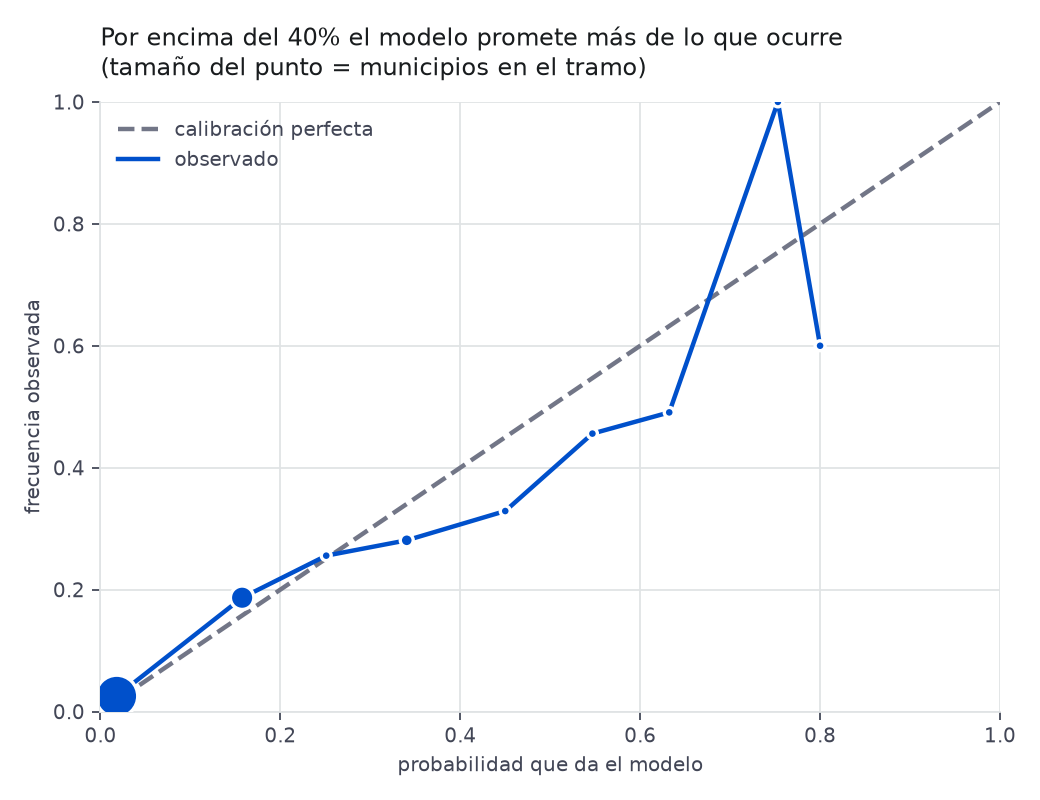
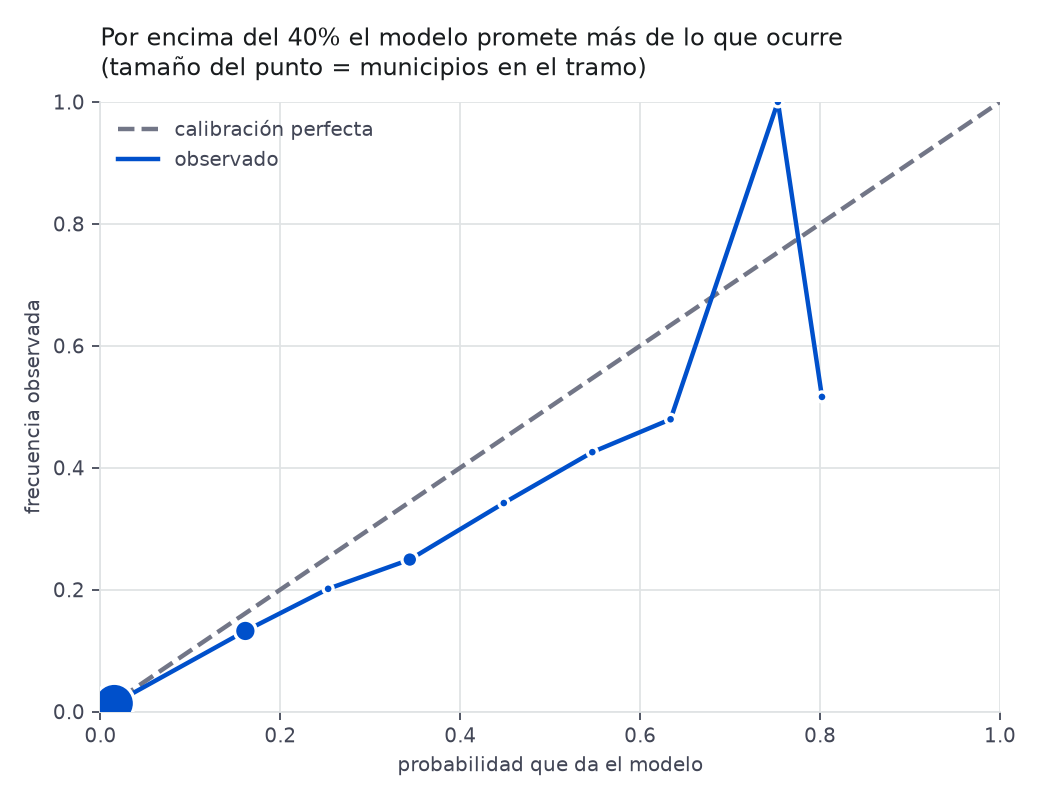
feat(ml): la renta que el INE asigna entra como hueco, no como dato
Segunda parte de la renta asignada: la primera la marcó (0033), esta la mide y la aplica
al modelo.

El problema no es que el valor sea una media, es que el régimen cambia a mitad de la
serie. Hasta 2019 los municipios de menos de 100 habitantes llegaban vacíos por secreto
estadístico; desde 2020 llegan rellenos con la media de su provincia o comarca agraria.
El modelo aprendía con huecos y predecía con medias comarcales, y justo en los municipios
pequeños, que son los del problema que estudia el proyecto.

Medido antes de tocar nada, con el backtest rodante y los mismos pliegues:

- Pliegue de validación 2020, municipios de <100 hab (n=1.372): MAE 12,518 → 11,622.
- Mismo pliegue, municipios de ≥100 hab: 4,605 en las dos variantes, idéntico.
- Pliegue de 2019, sin renta asignada: 5,547 en las dos, idéntico.

Que solo se mueva lo que tenía que moverse es lo que hace creíble la medición: el efecto
está aislado, no es ruido. El límite está dicho: solo hay un pliegue afectado, porque
2020 es el único año base con renta asignada y objetivo conocido.

Tras reentrenar, el informe versionado y el README:

- MAE del backtest 5,744 ± 0,278 → 5,668 ± 0,171 (también menos disperso).
- Estrato <500 hab: 8,507 → 8,199. Los otros tres estratos, idénticos al milésimo.
- Riesgo: AUC 0,8439 → 0,8677; Brier sin calibrar 0,07534 → 0,07262.
- Moran de los residuos: 0,1038 → 0,0984.

Lo que no mejora, dicho: el sesgo del estrato <500 pasa de -0,307 a +1,329 pp, es decir,
[…]

diff --git a/services/orchestrator/src/territorio_pipelines/ml/features.py b/services/orchestrator/src/territorio_pipelines/ml/features.py
@@ -39,13 +39,30 @@ TARGET = "target"
 HORIZONTE = 5
 
 
+#: Lo que el modelo lee de la matriz. La renta **asignada** por el INE a los municipios
+#: de menos de 100 habitantes (la media de los de ese tamaño de su comarca agraria, ver
+#: migración 0033) entra como hueco, no como dato.
+#:
+#: El motivo es que el régimen cambia a mitad de la serie: hasta 2019 esos municipios
+#: llegaban vacíos por secreto estadístico y desde 2020 llegan rellenos con una media.
+#: El modelo aprendía con huecos y predecía con medias comarcales, que es otra cosa.
+#: Medido en el backtest rodante (pliegue de validación 2020, único con renta asignada y
+#: objetivo conocido): el MAE de los municipios de menos de 100 habitantes baja de 12,518
+#: a 11,622 tratándola como hueco. En los de 100 o más queda idéntico (4,605), y el
+#: pliegue de 2019, que no tiene renta asignada, tampoco se mueve (5,547).
+#:
+#: HistGradientBoosting trata los NaN de forma nativa: el hueco es información, la media
+#: de otros municipios no.
+_SQL_FMA = """
+SELECT cod_municipio AS cod, anio, poblacion_total AS pob, paro_media_anual AS paro,
+       CASE WHEN flag_renta_asignada THEN NULL ELSE renta_neta_media_persona END AS renta,
+       alquiler_eur_m2 AS alquiler
+FROM fact_municipio_anual
+"""
+
+
 def _leer(engine: Engine) -> dict[str, pd.DataFrame]:
-    fma = pd.read_sql(
-        "SELECT cod_municipio AS cod, anio, poblacion_total AS pob, paro_media_anual AS paro, "
-        "renta_neta_media_persona AS renta, alquiler_eur_m2 AS alquiler "
-        "FROM fact_municipio_anual",
-        engine,
-    )
+    fma = pd.read_sql(_SQL_FMA, engine)
     dim = pd.read_sql(
         "SELECT cod_municipio AS cod, cod_provincia, superficie_km2 FROM dim_municipio", engine
     )

diff --git a/services/orchestrator/tests/test_features.py b/services/orchestrator/tests/test_features.py
@@ -163,3 +163,29 @@ class TestAntiFuga:
         # 2012 no existe en la serie sintética (empieza en 2015) → sin tendencia previa
         assert df["crec_prev3"].isna().all()
         assert not np.isfinite(df["crec_prev3"].to_numpy(dtype=float)).any()
+
+
+class TestRentaAsignada:
+    """La renta que el INE asigna a los municipios de menos de 100 habitantes (la media de
+    su comarca, ver migración 0033) no es un dato del municipio, y el modelo la recibía
+    como si lo fuera.
+
+    Importa porque el régimen cambia a mitad de la serie: hasta 2019 esos municipios
+    llegaban vacíos (secreto estadístico) y desde 2020 llegan rellenos. El modelo aprendió
+    con huecos y predice con medias comarcales. Medido en el backtest rodante: tratarla
+    como hueco baja el MAE de los municipios de menos de 100 habitantes de 12,518 a 11,622
+    en el pliegue de 2020, y deja intacto el resto (4,605 en los de 100 o más, y 5,547 en
+    el pliegue de 2019, que no tiene renta asignada).
+    """
+
+    def test_la_consulta_descarta_la_renta_asignada(self):
+        from territorio_pipelines.ml import features
+
+        sql = " ".join(features._SQL_FMA.split())
+        assert "flag_renta_asignada" in sql
+        assert "THEN NULL" in sql
+
+    def test_sigue_leyendo_la_renta_normal(self):
+        from territorio_pipelines.ml import features
+
+        assert "renta_neta_media_persona" in features._SQL_FMA

diff --git a/README.md b/README.md
@@ -70,9 +70,9 @@ more precise than it is:
 |---|---|---|
 | Persistence (assume no change) | 7.65 | — |
 | Trend (extrapolate recent growth) | 10.02 | — |
-| **HistGradientBoosting** | **5.74 ± 0.28** | **0.36** |
+| **HistGradientBoosting** | **5.67 ± 0.17** | **0.37** |
 
-The model beats persistence by 24% and naive trend extrapolation by 42%. Note that
+The model beats persistence by 26% and naive trend extrapolation by 43%. Note that
 extrapolating the trend is *worse* than assuming nothing changes — a useful reminder about
 small-population noise.
 
@@ -91,7 +91,7 @@ the honest number is the one published now.
 
 **Overlapping windows are priced, not hidden.** The target looks 5 years ahead, so with
 contiguous folds the training and validation windows share trajectory over the same
-municipalities. With a 2-year embargo the MAE rises to 6.16. A full embargo (= the horizon)
+municipalities. With a 2-year embargo the MAE rises to 6.04. A full embargo (= the horizon)
 is **not feasible**: population data starts in 2015 and there are not enough base years
 left. That is a limit of the data, and it is stated rather than quietly skipped.
 
@@ -102,12 +102,12 @@ villages, and that is exactly where the model is weakest:
 
 | Size | n | MAE | If nothing changed |
 |---|---|---|---|
-| <500 | 4,001 | **8.53** | 9.83 |
+| <500 | 4,001 | **8.20** | 9.83 |
 | 500-2,000 | 1,871 | 4.24 | 5.88 |
 | 2,000-10,000 | 1,500 | 3.04 | 5.47 |
 | >10,000 | 759 | **2.33** | 4.63 |
 
-A factor of 3.7 between the extremes. The model still wins in every stratum, but by much
+A factor of 3.5 between the extremes. The model still wins in every stratum, but by much
 less than the aggregate suggests.
 
 **The residuals are spatially autocorrelated.** Moran's I on the error = **0.104**
@@ -127,7 +127,7 @@ separate temporal blocks), it **does not improve** the Brier score: 0.0760 calib
 
 ![Reliability diagram](docs/evaluacion/fiabilidad.png)
 
-So the traffic light **ranks well but does not quantify well** — AUC 0.84 separates the
+So the traffic light **ranks well but does not quantify well** — AUC 0.87 separates the
 towns at risk, which is what the green/amber/red UI uses. Reading the percentage as a
 literal frequency is what does not hold. An earlier version of this README claimed
 "70% actually means 70%"; that claim came from calibrating and scoring on the same rows.
@@ -161,7 +161,7 @@ existed. Run with the full 34,126 labelled headlines:
 The improvement is **0.029 pp against a 0.20 pp threshold**, and its bootstrap 95% CI
 `[-0.040, 0.099]` contains zero. **Verdict: rejected.** The news features do not enter the
 production model. The layer survives as a product — a local-press panel in the dossier —
-not as a predictor. *(This MAE is not comparable to the 5.74 above: 3-year horizon, Navarre
+not as a predictor. *(This MAE is not comparable to the 5.67 above: 3-year horizon, Navarre
 only, different window.)*
 
 The criterion was not touched after seeing the result. Verifying that is the point of
@@ -180,10 +180,27 @@ twelve** (7–11). 2020 is a validation base year.
 
 Both flags are now columns (`flag_renta_secreto`, `paro_meses`). Neither goes into the
 model: measured over the same folds, adding them changes the MAE by nothing at all
-(5.743336 in every variant, to six decimals). `renta` already carries the information as a
+(5.743336 in every variant, to six decimals). `renta` already carried the information as a
 NaN that the gradient booster exploits natively, and `paro_meses` is constant within every
 training window. They are there for the reader and the data contract, not the predictor —
 which is why it was worth measuring rather than assuming.
+
+**That last argument stopped holding, and measuring caught it.** From the ADRH 2020
+edition the INE no longer masks the income of municipalities under 100 inhabitants: it
+*assigns* them the average of the under-100 municipalities of their province (2020-2021)
+or of their **agrarian comarca** (2022 onwards). So 22 villages in Tierra Estella all
+"earn" exactly €18,318 in 2023. It is one in six municipalities with income data, and
+precisely the small ones this project is about — and the regime changes mid-series: masked
+until 2019, filled in from 2020. The model learned with holes and predicted with comarca
+averages.
+
+A third column (`flag_renta_asignada`, migration 0033) marks it, and unlike the other two
+this one **does** go into the model, as a hole rather than a number. Measured on the same
+rolling backtest (validation fold 2020, the only one with both assigned income and a known
+target): MAE for municipalities under 100 inhabitants drops from 12.52 to 11.62, while
+those of 100 or more stay identical to three decimals (4.605), and the 2019 fold — which
+has no assigned income — does not move either (5.547). The published headline went from
+5.74 ± 0.28 to 5.67 ± 0.17.
 
 **Explainability without overclaiming.** Permutation importance globally; per-municipality
 "drivers" derived from importance × correlation sign × deviation from the median. The code
@@ -412,10 +429,10 @@ Stated plainly, because a model of rural decline that oversells itself is worse 
   are where that approximation hurts most.
 - **Correlation, not causation.** The per-municipality "drivers" are a ranking heuristic to
   guide investigation. Nothing here identifies a causal effect.
-- **Small populations are noisy — and now measured.** MAE is 8.53 pp for municipalities
-  under 500 inhabitants versus 2.36 for those over 10,000. The aggregate 5.80 is an average
+- **Small populations are noisy — and now measured.** MAE is 8.20 pp for municipalities
+  under 500 inhabitants versus 2.33 for those over 10,000. The aggregate 5.67 is an average
   over a very uneven surface, and the weak half is the half this project exists for.
-- **The residuals are spatially autocorrelated** (Moran's I = 0.114, p = 0.001), so the
+- **The residuals are spatially autocorrelated** (Moran's I = 0.098, p = 0.001), so the
   model is missing regional structure. Known, measured, unfixed.
 - **The risk percentage is not a calibrated frequency.** Isotonic calibration does not
   improve the Brier score out of sample. Use the green/amber/red level, not the number.

diff --git a/docs/evaluacion/informe.md b/docs/evaluacion/informe.md
@@ -14,10 +14,10 @@ Un corte único da una cifra sin dispersión que parece más precisa de lo que e
 | Año de validación | Entrena con | n val | MAE | R² | MAE persistencia | MAE tendencia |
 |---|---|---|---|---|---|---|
 | 2019 | 2015-2018 | 8.131 | 5,547 | 0,406 | 7,662 | 10,192 |
-| 2020 | 2015-2019 | 8.131 | 5,940 | 0,309 | 7,632 | 9,844 |
+| 2020 | 2015-2019 | 8.131 | 5,789 | 0,330 | 7,632 | 9,844 |
 
-**MAE = 5,744 ± 0,278 pp** (2 pliegues,
-rango 5,547–5,940).
+**MAE = 5,668 ± 0,171 pp** (2 pliegues,
+rango 5,547–5,789).
 
 Pliegues descartados y por qué:
 
@@ -33,12 +33,12 @@ un embargo, y la ventana de datos disponible no da para mucho:
 
 | Embargo (años) | Pliegues | MAE medio | Nota |
 |---|---|---|---|
-| 2 | 1 | 6,157 |  |
+| 2 | 1 | 6,038 |  |
 | 3 | 0 | — | sin pliegues con datos suficientes |
 | 4 | 0 | — | sin pliegues con datos suficientes |
 | 5 | 0 | — | sin pliegues con datos suficientes |
 
-Con embargo 1 el MAE es 5,744; con embargo 2, 6,157. La diferencia
+Con embargo 1 el MAE es 5,668; con embargo 2, 6,038. La diferencia
 es el precio de haber estado midiendo sobre ventanas solapadas. **Un embargo completo
 (= el horizonte) no es factible hoy**: la población empieza en 2015 y no quedan años base
 suficientes. Es una limitación de los datos, no una decisión de diseño, y se declara en
@@ -50,13 +50,13 @@ vez de publicar el número más favorable.
 
 | Tamaño | n | MAE | Sesgo | MAE si no cambia nada |
 |---|---|---|---|---|
-| <500 | 4.001 | 8,51 | -0,31 | 9,83 |
+| <500 | 4.001 | 8,20 | +1,33 | 9,83 |
 | 500-2000 | 1.871 | 4,24 | +1,16 | 5,88 |
 | 2000-10000 | 1.500 | 3,04 | +0,30 | 5,47 |
 | >10000 | 759 | 2,33 | -0,17 | 4,63 |
 
 Esto es lo que un MAE agregado esconde: el error en los municipios de menos de 500
-habitantes es **3,7 veces**
+habitantes es **3,5 veces**
 el de los de más de 10.000. Y son justo los municipios por los que existe este proyecto.
 La comparación honesta no es contra cero, sino contra "no cambia nada" en cada estrato:
 ahí el modelo sigue ganando, pero por menos de lo que sugiere la cifra global.
@@ -65,18 +65,18 @@ ahí el modelo sigue ganando, pero por menos de lo que sugiere la cifra global.
 
 | Provincia | n | MAE | Sesgo |
 |---|---|---|---|
-| 19 | 288 | 14,48 | -1,82 |
-| 42 | 183 | 10,32 | -3,75 |
-| 16 | 238 | 9,73 | +1,77 |
-| 26 | 174 | 9,53 | -0,73 |
-| 40 | 209 | 9,45 | +2,64 |
+| 19 | 288 | 13,62 | +1,05 |
+| 16 | 238 | 9,64 | +3,00 |
+| 44 | 236 | 9,52 | +4,22 |
+| 26 | 174 | 9,19 | +1,14 |
+| 42 | 183 | 9,07 | -0,86 |
 
 ## 3. ¿Le sobra estructura espacial al residuo?
 
 Moran's I sobre el error del pliegue más reciente, con 8 vecinos más
 próximos por centroide:
 
-- **I = 0,1038** (esperado bajo azar: -0,0001), p = 0,001, n = 8.131
+- **I = 0,0984** (esperado bajo azar: -0,0001), p = 0,001, n = 8.131
 
 El error **no** está repartido al azar en el mapa: municipios vecinos fallan en el mismo
 sentido. Queda geografía que las 17 features no capturan. Es un
@@ -101,9 +101,9 @@ no ha visto.
 
 | | |
 |---|---|
-| AUC | 0,8439 |
-| Brier sin calibrar | 0,07534 |
-| Brier calibrado (isotónica) | 0,07596 |
+| AUC | 0,8677 |
+| Brier sin calibrar | 0,07262 |
+| Brier calibrado (isotónica) | 0,07439 |
 | Tasa base del evento | 0,0980 |
 | n | 8.131 |
 
@@ -111,23 +111,23 @@ no ha visto.
 
 | Tramo | n | Promete | Ocurre |
 |---|---|---|---|
-| 0.0-0.1 | 5.355 | 0,018 | 0,025 |
-| 0.1-0.2 | 1.666 | 0,158 | 0,187 |
-| 0.2-0.3 | 262 | 0,251 | 0,256 |
-| 0.3-0.4 | 509 | 0,341 | 0,281 |
-| 0.4-0.5 | 152 | 0,450 | 0,329 |
-| 0.5-0.6 | 68 | 0,547 | 0,456 |
-| 0.6-0.7 | 108 | 0,632 | 0,491 |
+| 0.0-0.1 | 4.959 | 0,015 | 0,013 |
+| 0.1-0.2 | 1.414 | 0,161 | 0,132 |
+| 0.2-0.3 | 303 | 0,253 | 0,201 |
+| 0.3-0.4 | 746 | 0,344 | 0,249 |
+| 0.4-0.5 | 269 | 0,448 | 0,342 |
+| 0.5-0.6 | 141 | 0,547 | 0,425 |
+| 0.6-0.7 | 267 | 0,634 | 0,479 |
 | 0.7-0.8 | 1 | 0,753 | 1,000 |
-| 0.8-0.9 | 10 | 0,800 | 0,600 |
+| 0.8-0.9 | 31 | 0,802 | 0,516 |
 
 **Resultado negativo, y se publica igual.** Medida fuera de la muestra en que se ajusta,
-la calibración isotónica **no mejora** el Brier (0,07596 frente a
-0,07534 sin calibrar). El diagrama enseña por qué: por encima del
+la calibración isotónica **no mejora** el Brier (0,07439 frente a
+0,07262 sin calibrar). El diagrama enseña por qué: por encima del
 40 % el modelo promete más de lo que ocurre, y los tramos altos tienen tan pocos
 municipios que la isotónica no tiene con qué corregirlos.
 
 La consecuencia práctica es que **el semáforo ordena bien pero no cuantifica bien**: el
-AUC de 0,84 dice que separa los municipios en riesgo de los que no, y eso es lo
+AUC de 0,87 dice que separa los municipios en riesgo de los que no, y eso es lo
 que usa la interfaz (verde / ámbar / rojo). Lo que no se sostiene es leer la probabilidad
 como una frecuencia literal.
